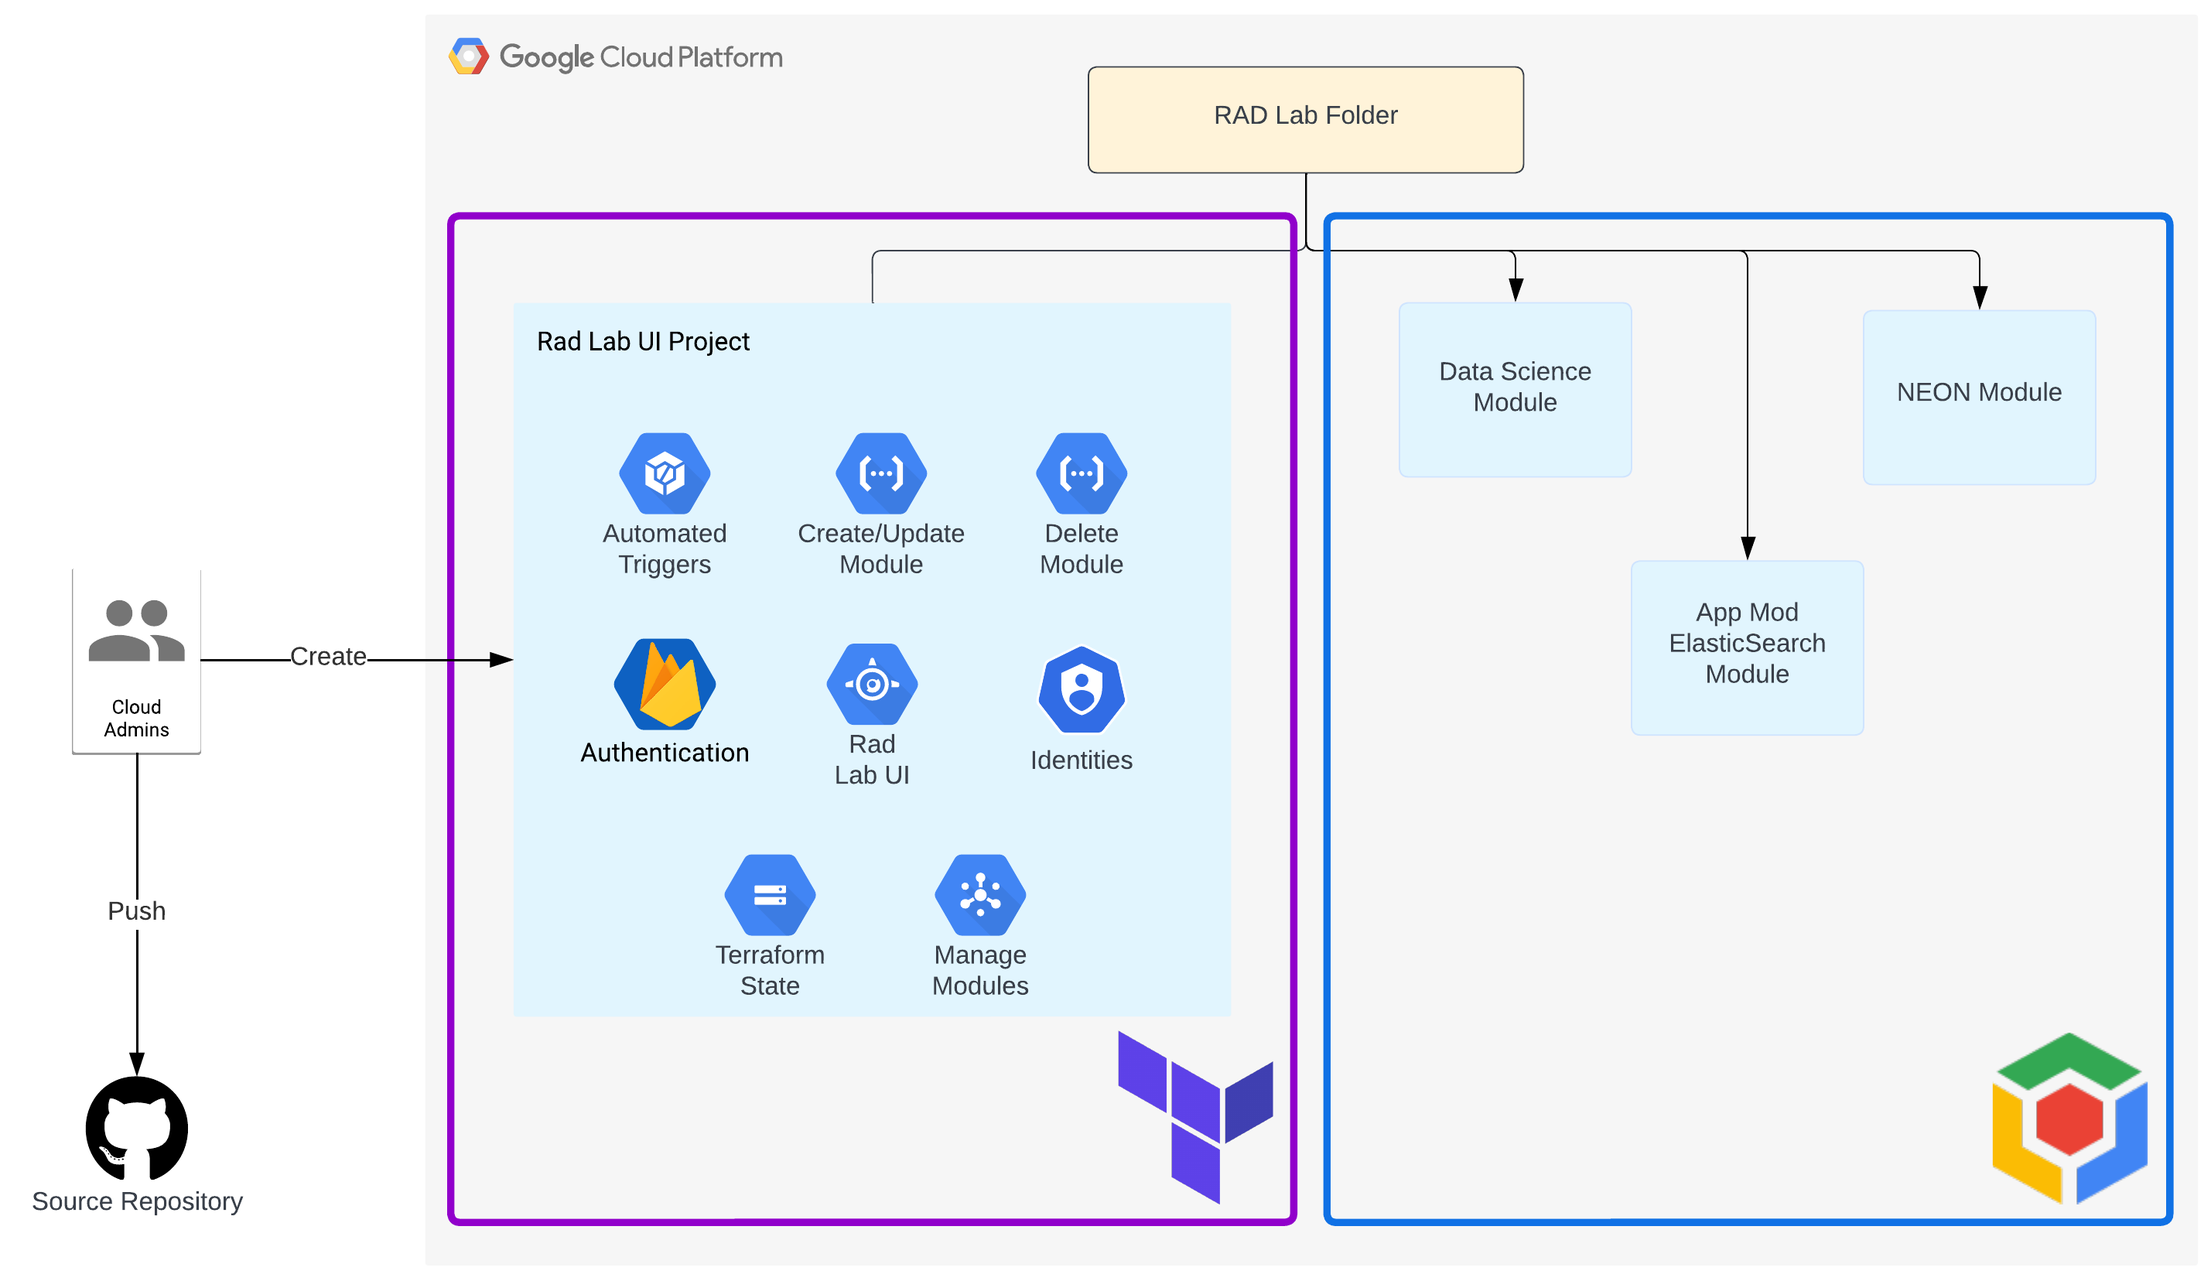
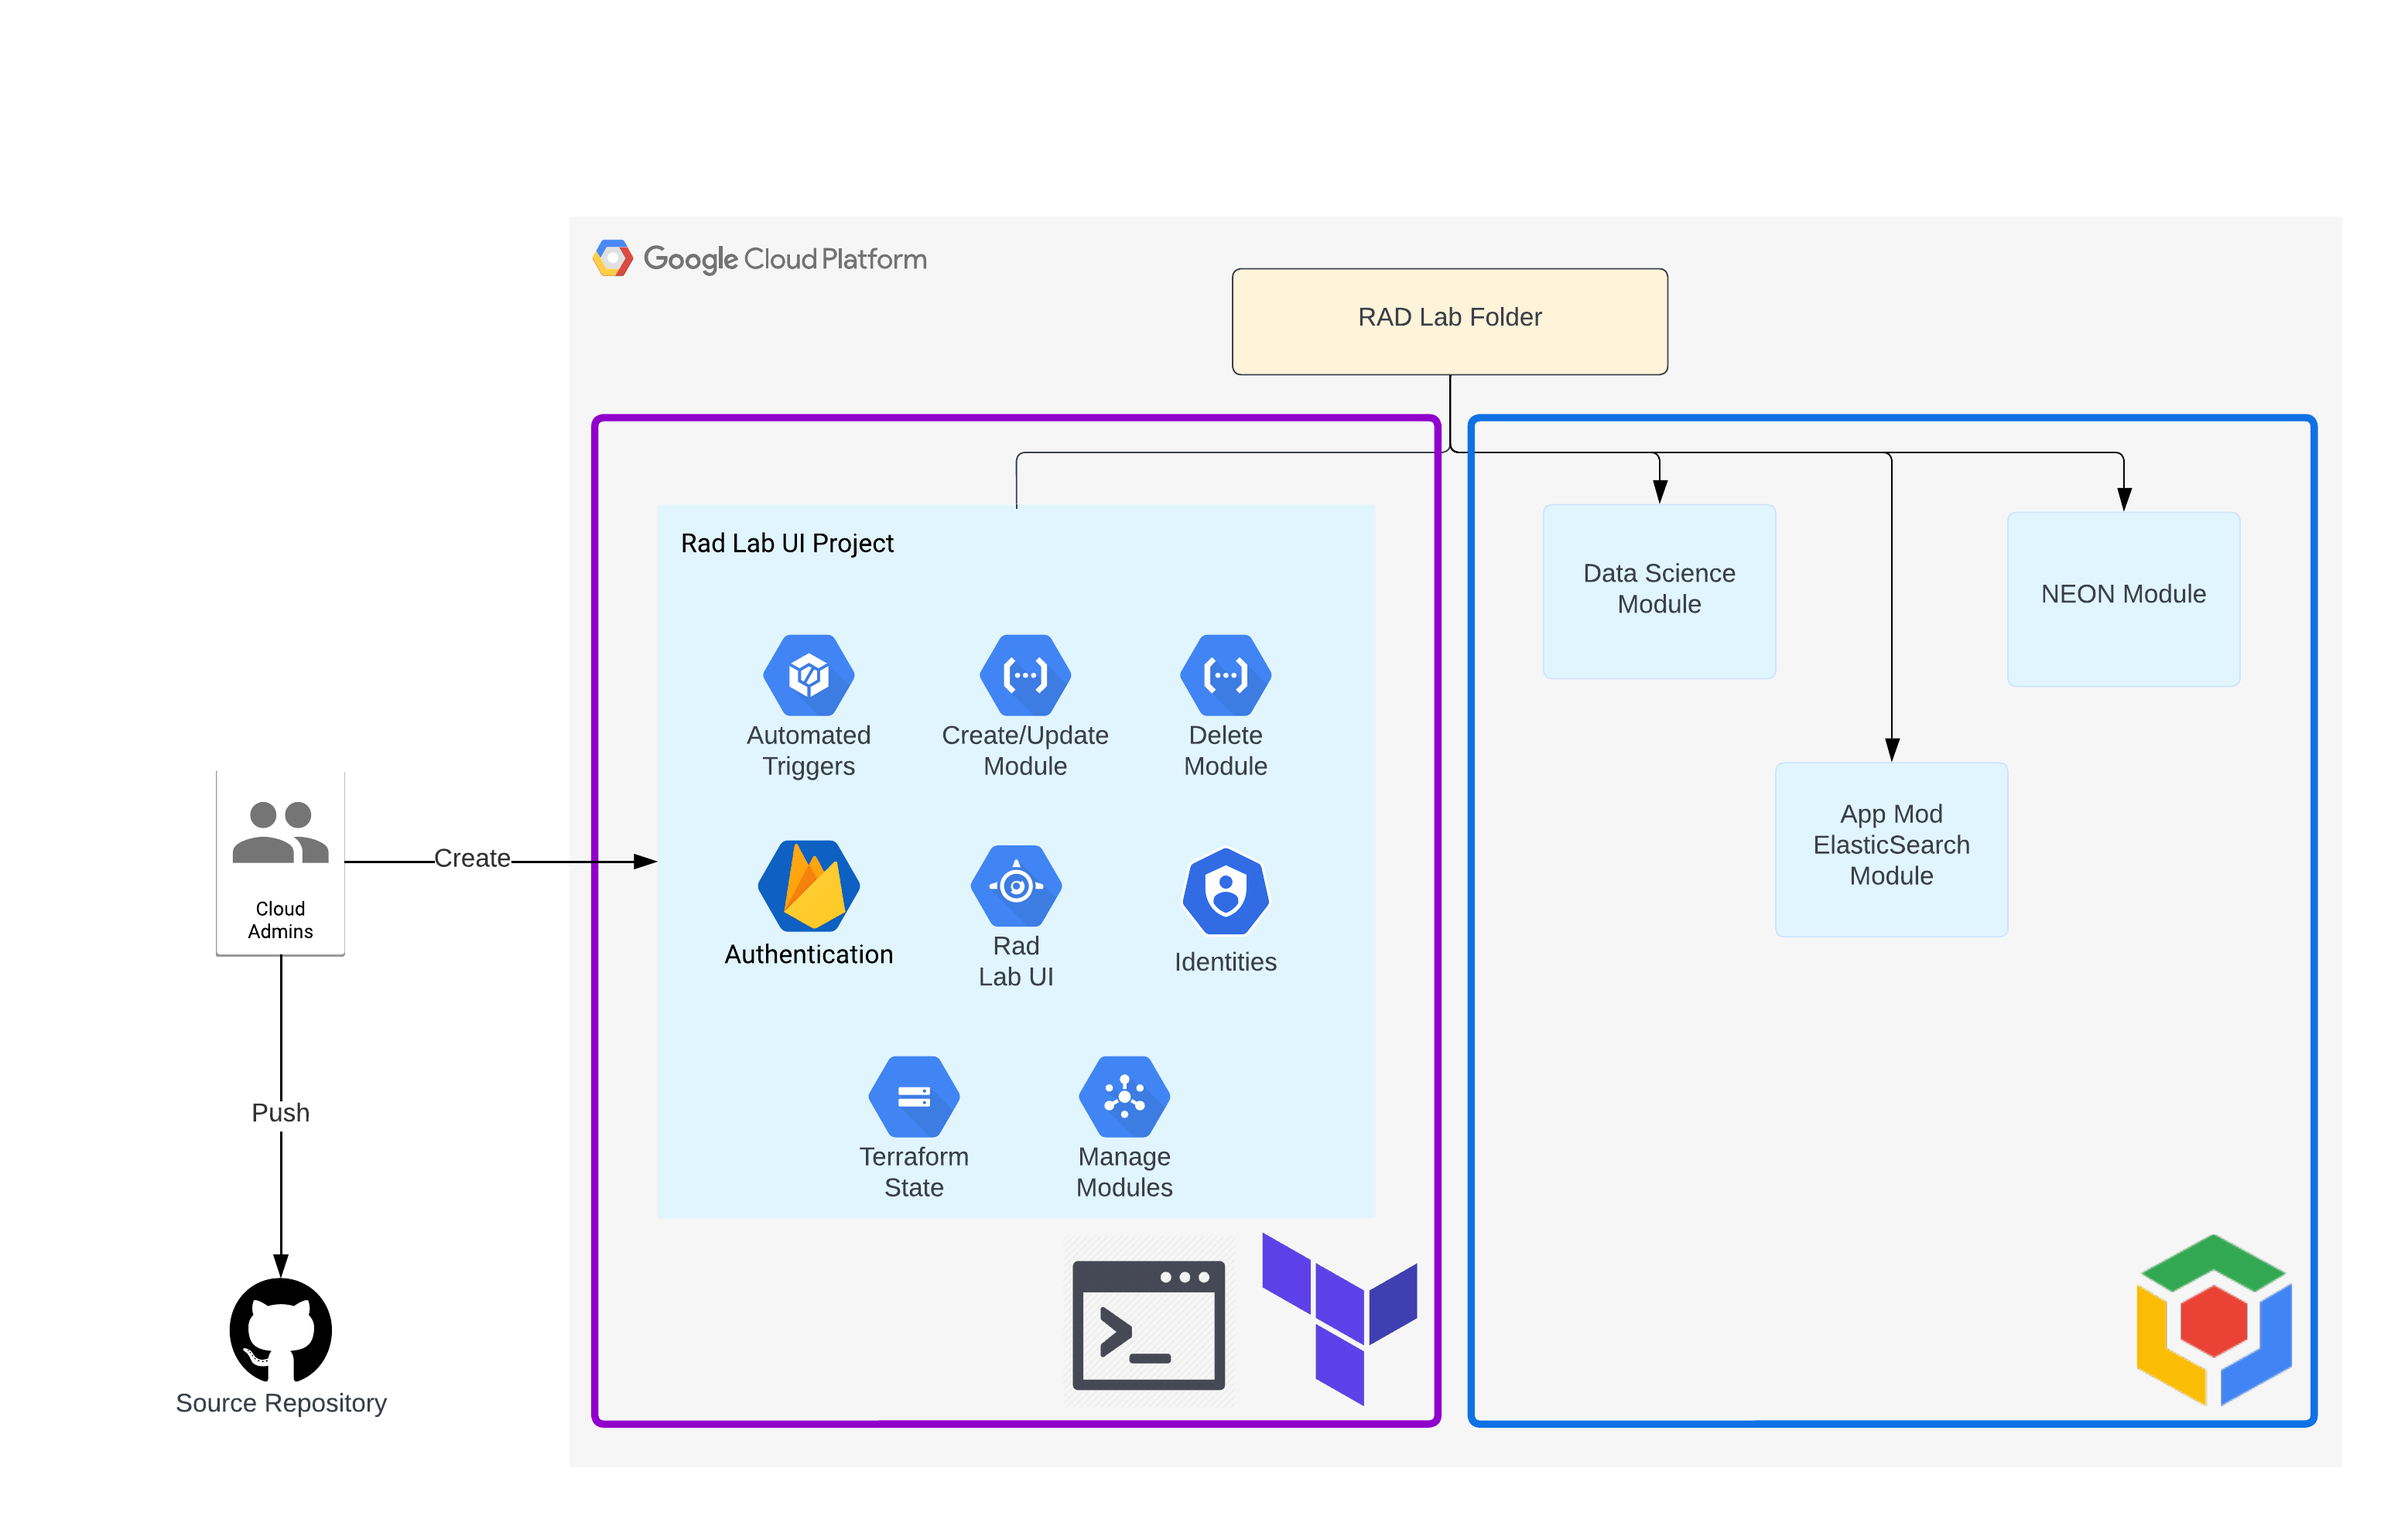
Adding RAD Lab UI flow to the documentation

diff --git a/docs/docs/rad-lab-ui/ui_installation/overview.md b/docs/docs/rad-lab-ui/ui_installation/overview.md
@@ -8,12 +8,48 @@ The RAD Lab UI codebase contains the necessary Terraform and frontend code to de
 
 ## Architecture
 
-![](../../../images/RadLabUiArchitecture.png)
+![](../../../../radlab-ui/images/architecture.png)
+
+To install the UI, a combination of Terraform and shell scripts is used to create the necessary Google Cloud components and configure the web application.  Once this step is completed, users will be able to create RAD Lab modules via the user interface, once they've been given access.  The components that are part of the purple box are the services used to run the user interface.  The components in the blue box are RAD Lab modules that are created by the user and where the lifecycle is managed via the UI.
 
 ## Components
 
-The infrastructure to support the RAD Lab UI consists of the following components:
-- Google Cloud project
-- Pub/Sub topics to manage the asynchronous communication between the user interface and the backend
-- Cloud Functions to invoke Cloud Build and deploy RAD Lab modules
-- 
+### Terraform
+As part of the installation instructions, Terraform will be used to create the following components:
+- Google Cloud project, including APIs
+- A number of Cloud Functions, which are used by the RAD Lab UI to create RAD Lab Mod
+- Google App Engine application to host the UI
+- Firebase application to manage routing, security, ...
+- Google Cloud Storage buckets for the Terraform state files, for both the UI and the individual RAD Lab modules
+- Necessary service accounts with IAM permissions, needed for their activities
+- Cloud Build triggers to deploy the RAD Lab modules
+
+### Shell scripts
+The Cloud Admin will have to run a number of Shell scripts to configure the Firebase application, incl. Firestore rules and configuration specific to the UI.
+
+### Manual
+
+The manual activities can be split in two separate sections:
+- Google Admin
+- Firebase
+
+### Google Admin
+To grant access to users and to ensure that the application can validate group memberships, it's necessary to create groups and assign a custom role to service accounts when installing the RAD Lab UI.
+
+### Firebase 
+Invoking Firebase APIs via Infrastructure as Code from a terminal requires the use of a Google Cloud service account.  This is not supported by the RAD Lab UI, so the following steps have to be completed manually before the installation can be completed:
+- Create the Firebase application
+- Enable authentication mechanisms
+
+## Flow
+
+![](../../../../radlab-ui/images/flow.png)
+
+### Steps
+
+When users create a RAD Lab module, the following steps are being executed by the underlying backend components:
+1. Users select a module from the UI and click Create, supplying the necessary values for the Terraform variables.
+2. The UI posts a message to a Pub/Sub topic, passing the values for the variables in `variables.tf` for that specific module and some [additional information](../../../../radlab-ui/automation/terraform/infrastructure/function/create_deployment/index.js).
+3. The Cloud Function creates 2 files, `backend.tf` and `terraform.tfvars.json`.  `backend.tf` contains information regarding Terraform remote state for that specific module creation and `terraform.tfvars.json` contains the values for `variables.tf` for that specific module.
+4. Once the previous step is completed, the Cloud Function invokes the Cloud Build trigger to create the RAD Lab modules and stores the unique build ID from Cloud Build in Firestore.
+5. The RAD Lab UI retrieves the build ID for that specific RAD Lab module and polls the Cloud Build APIs for the build status and logs for that particular RAD Lab module.
